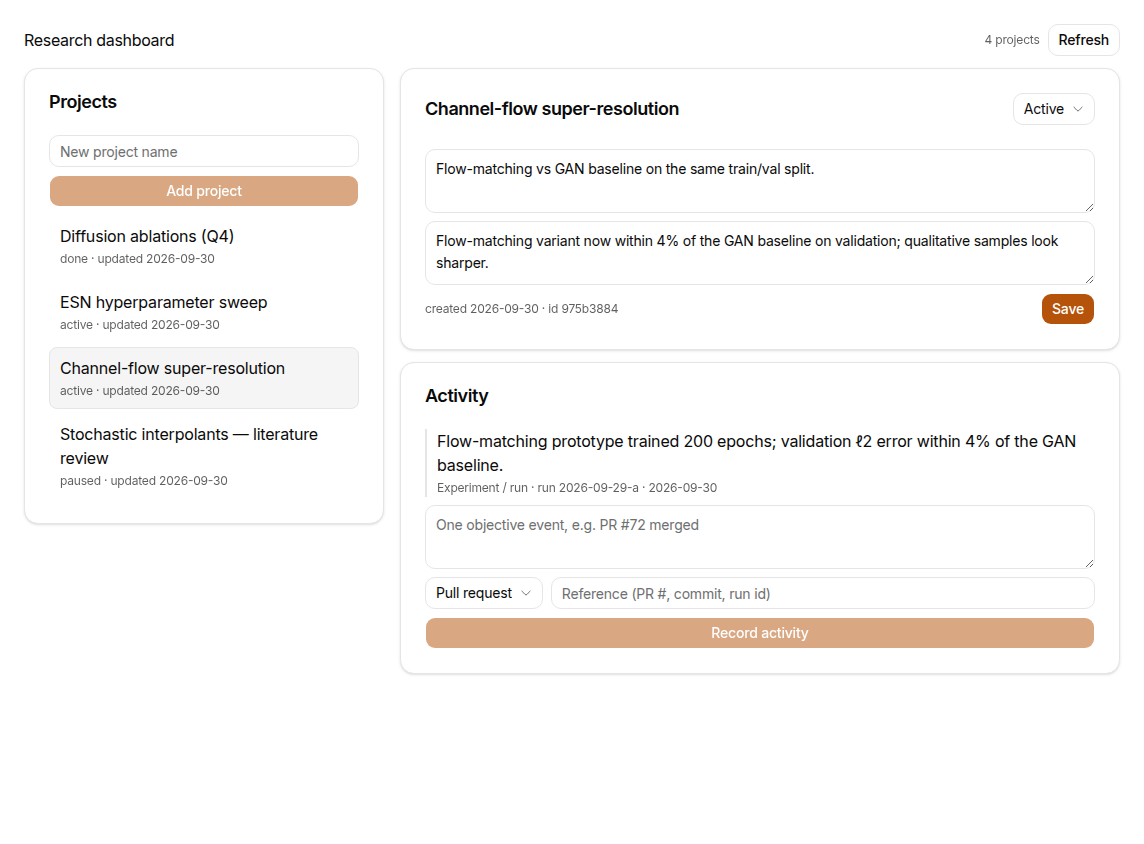
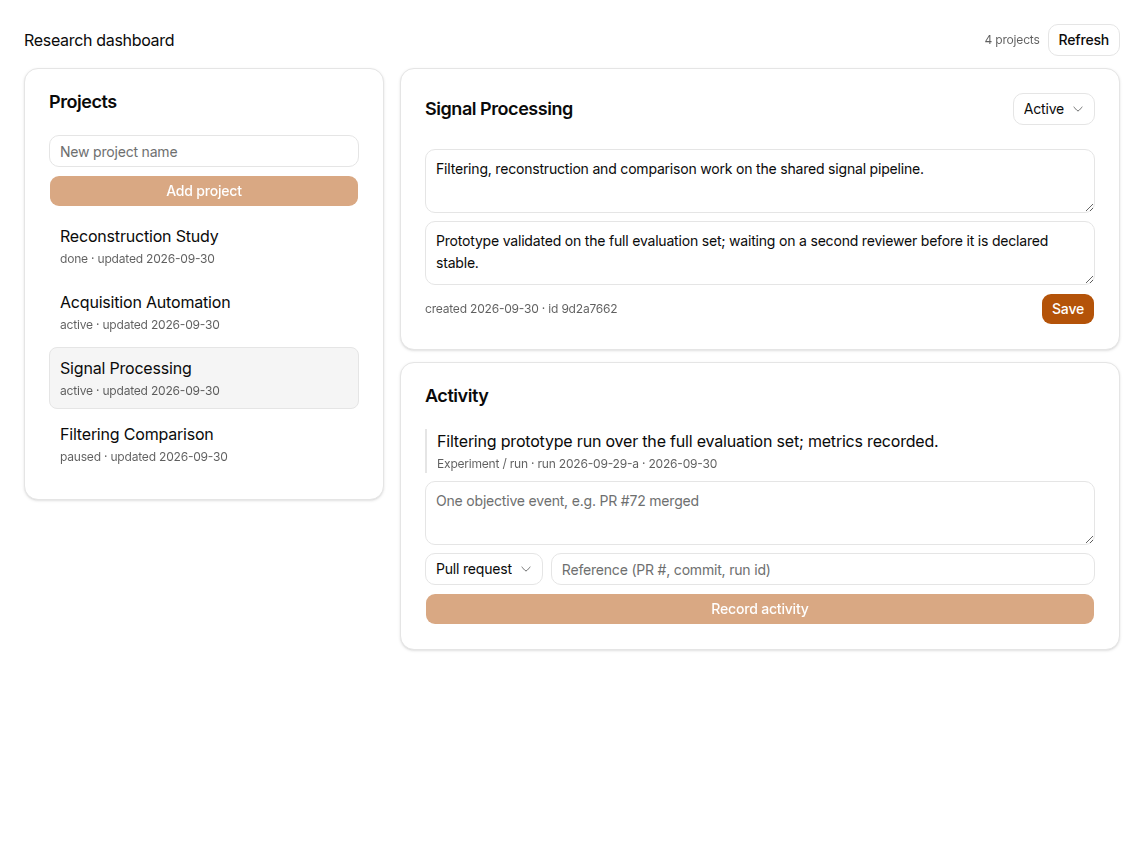
docs: neutral example data everywhere (closes D6) and re-captured screenshots
The review's last open item: nothing in this public repo should carry internal research state. The
review document's illustrative names are neutralised (Signal Processing / Acquisition Automation /
<group>/processing-pipeline), the test fixture no longer uses a real project name, and — the part that
mattered most — the dev database was re-seeded through the plugin's own API with four neutral projects
and three activities, then all three screenshots were re-captured, since images are docs and cannot be
edited in place.

Also records D6 as resolved in the plan (all decisions now closed) and points the resume note at C1.

diff --git a/src/store.test.ts b/src/store.test.ts
@@ -21,7 +21,7 @@ describe("ResearchStore", () => {
   test("creates and lists projects newest first", () => {
     const subject = store();
     try {
-      const first = subject.createProject({ name: "CS-UDV" });
+      const first = subject.createProject({ name: "Topic Alpha" });
       const second = subject.createProject({
         name: "OpenFOAM validation",
         status: "paused",
@@ -68,7 +68,7 @@ describe("ResearchStore", () => {
   test("records activity with provenance and filters by project", () => {
     const subject = store();
     try {
-      const project = subject.createProject({ name: "CS-UDV" });
+      const project = subject.createProject({ name: "Topic Alpha" });
       const other = subject.createProject({ name: "COMSOL DoE" });
       subject.addActivity({
         projectId: project.id,

diff --git a/docs/reviews/2026-09-30-v2-structural-redesign.md b/docs/reviews/2026-09-30-v2-structural-redesign.md
@@ -4,9 +4,11 @@
 **Scope:** the whole dashboard model — schema, action surface, UI, librarian behaviour.
 **Our response and the resulting work packages:** [`../V2-PLAN.md`](../V2-PLAN.md).
 
-Verbatim below, with two classes of edit for this public repo: personal names and the owner of a
-private repository are replaced with placeholders (`<person-a>`, `<group>/…`). Research topic names
-are left as written. No other changes.
+Verbatim below, with these edits for this public repo: personal names and private-repository owners
+are replaced with placeholders (`<person-a>`, `<group>/…`), and the illustrative topic, repository
+and branch names are neutralised (`Signal Processing`, `Acquisition Automation`,
+`<group>/processing-pipeline`) — the argument is structural, so the real names carry no value here
+and only couple public code to internal research state. No other changes.
 
 ---
 
@@ -42,7 +44,7 @@ Topic A ──┬── Repo 1
 Topic B ───── Repo 1
 ```
 
-So `udv-echo-process` can support both acquisition automation and signal-processing topics without duplication.
+So `processing-pipeline` can support both acquisition automation and signal-processing topics without duplication.
 
 ---
 
@@ -511,7 +513,7 @@ The default screen should instead look approximately like:
 ```text
 Research Overview                       Last 14 days
 
-CS-UDV SIGNAL PROCESSING
+Signal Processing
 A, B
 
   ● Signal explorer
@@ -529,13 +531,13 @@ A, B
   Recent: 6 events · last activity today
 
 
-CS-UDV ACQUISITION
+Acquisition Automation
 A, C
 
   ● Parameter automation
     active
 
-  ! DOP UI automation
+  ! UI automation
     blocked
     Blocker: live Windows machine unavailable
 
@@ -551,7 +553,7 @@ This should be the manager's **10-second view**.
 Clicking a topic opens:
 
 ```text
-CS-UDV Signal Processing
+Signal Processing
 
 Description
 People
@@ -562,7 +564,7 @@ Development
 
 Signal explorer                 ACTIVE
 feature
-repo: udv-echo-process
+repo: processing-pipeline
 branch: feat/signal-explorer
 PR #45
 
@@ -592,17 +594,17 @@ Repositories deserve their own view, but they aren't the organizational hierarch
 For example:
 
 ```text
-<group>/udv-echo-process
+<group>/processing-pipeline
 
 Supports:
-  CS-UDV acquisition
-  CS-UDV signal processing
+  Acquisition Automation
+  Signal Processing
 
 Branches/axes represented:
   feat/signal-explorer
       → Signal processing
 
-  feat/emissions-control
+  feat/acquisition-control
       → Acquisition automation
 
 Recent activity:
@@ -623,10 +625,10 @@ Keep this simple:
 
 Currently involved in
 
-CS-UDV Signal Processing
+Signal Processing
   Signal explorer            active
 
-CS-UDV Acquisition
+Acquisition Automation
   Parameter automation       active
 
 Recent activity

diff --git a/docs/V2-PLAN.md b/docs/V2-PLAN.md
@@ -383,7 +383,7 @@ a platform-admin concern, not a plugin one.
 | **D3** | Topic status vocabulary (P3) | ✅ **`active` / `paused` / `completed` / `archived`** — deliberately not the axis states; `CHECK` constraints as defence in depth behind the host's schema validation (F7) |
 | **D4** | Exposed tool count | ✅ **five now**: `get_overview`, `get_topic`, `search_dashboard`, `reconcile_topic`, `record_activity`. Registration becomes non-exposed UI/admin actions, optionally folded into `reconcile_topic` |
 | **D5** | Legacy V1 data | ✅ **(a) copy it** — the rename/copy strategy of F1, `commit`→`github_commit`, `document`→`repo_document`, `recorded_at = occurred_at` |
-| **D6** | This plan is in the public repo and names the group's topics | ⏳ **open — owner's call**: (a) keep · (b) genericise to `Topic A/B`. Blocks nothing |
+| **D6** | Real topic names in the public repo | ✅ **(b) genericise** (reviewer, 2026-09-30): neutral examples only — `Signal Processing`, `Acquisition Automation`, `Topic Alpha`. Applied to the review document, the test fixture **and** the screenshots (dev DB re-seeded neutral, images re-captured), not just the plan |
 | **D7** | Provenance breadth | ✅ **bounded** — three confidence fields + activities + annotations + actor/source metadata on changes that matter; no per-field provenance in V2 |
 
 **Answered 2026-09-30.** The reviewer's answers are kept verbatim in

diff --git a/README.md b/README.md
@@ -25,7 +25,9 @@ here: `vendor/` holds the recipe that puts the plugin into a checkout, because N
 > [`docs/reviews/2026-09-30-v2-plan-answer.md`](docs/reviews/2026-09-30-v2-plan-answer.md). Five
 > decisions landed (three confidence columns; `axis_repositories` replacing the single repo FK; topic
 > states `active/paused/completed/archived`; five exposed tools instead of eight; copy the V1 data), and
-> one of our claims was corrected — the platform *does* validate `inputSchema` at runtime.
+> one of our claims was corrected — the platform *does* validate `inputSchema` at runtime. The last
+> open item (real topic names in a public repo) was resolved the same day: every example — docs, test
+> fixtures and the screenshots — now uses neutral data.
 
 ## Current look
 
